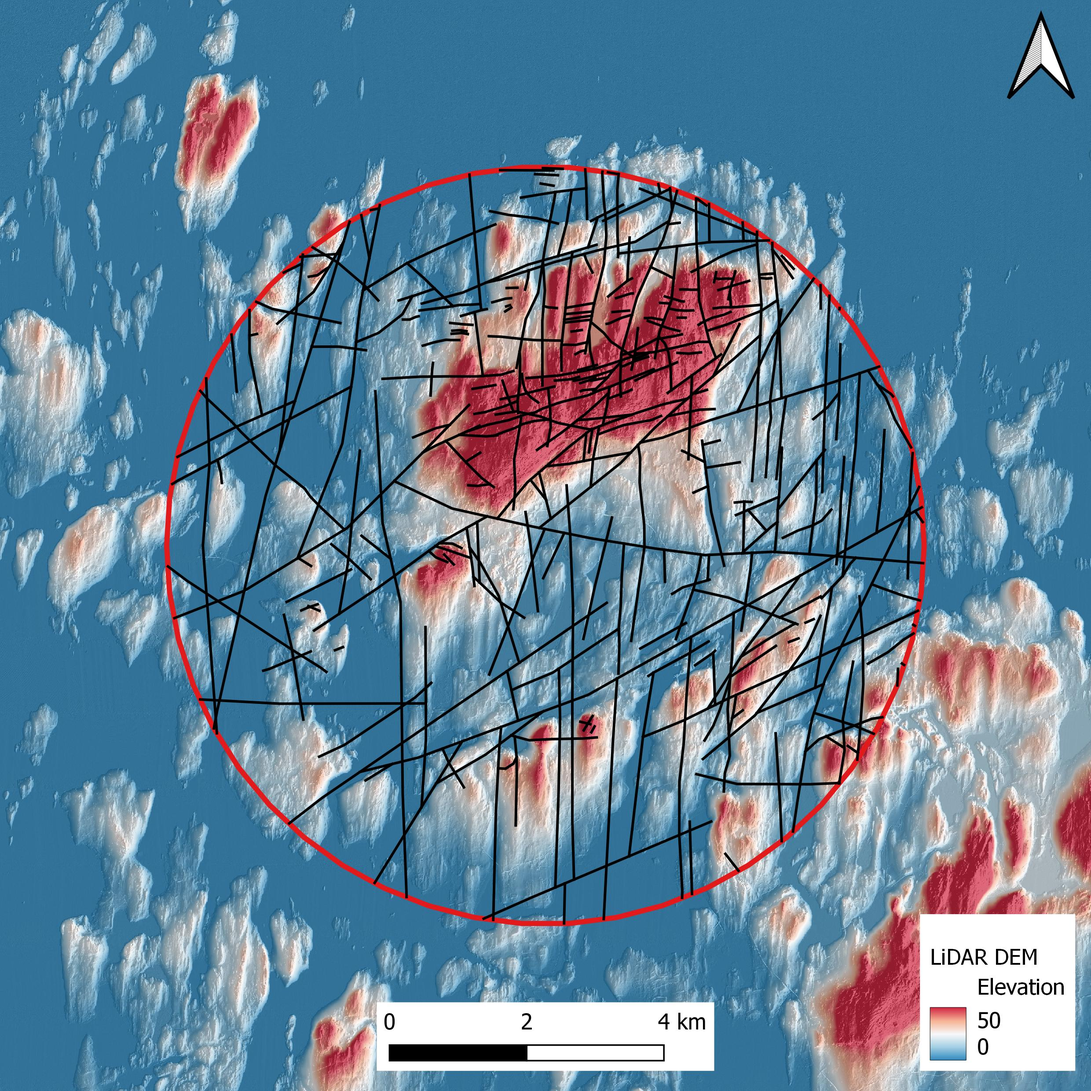
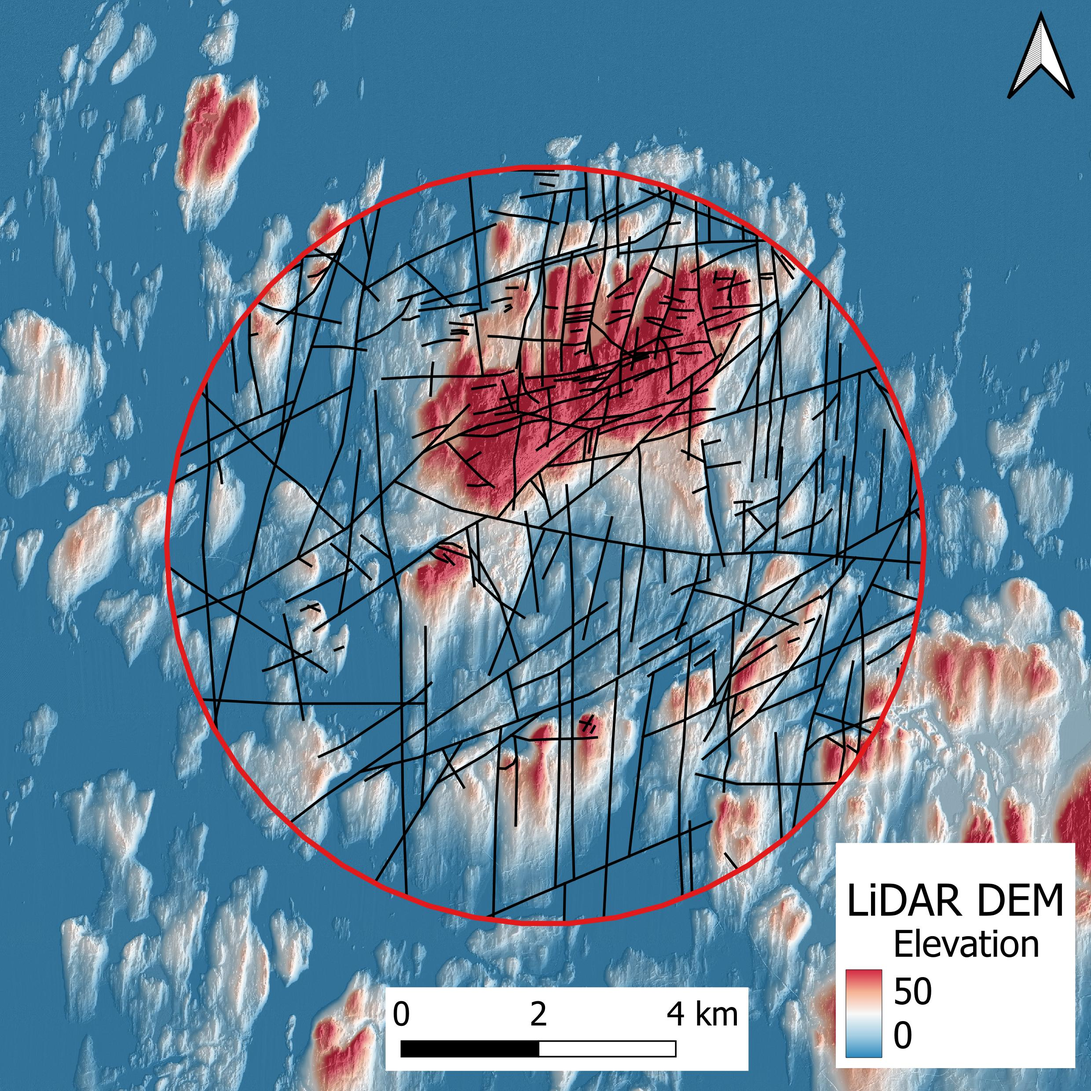
fix: fix plot labels

Changed region(s): [[0.7452, 0.7452, 0.9935, 0.9935], [0.3415, 0.9004, 0.7141, 0.9935]]

diff --git a/dodo.py b/dodo.py
@@ -483,7 +483,7 @@ def task_add_colorbar():
     """
     Add custom colorbars to rasters.
     """
-    labels = ["A.", "C.", "A.", "B.", "B.", "D."]
+    labels = ["(a)", "(c)", "(a)", "(b)", "(b)", "(d)"]
     cmd_base = command(
         [
             "python",
@@ -541,7 +541,7 @@ def add_label_to_image_cmd(path, label, x=30, y=60, fontsize=50):
         r"\( ",
         str(path),
         "-draw",
-        f""" "text {x},{y} '{label}.'" """,
+        f""" "text {x},{y} '{label}'" """,
         r" \)",
     ]
 
@@ -668,12 +668,13 @@ def task_qgis_fig04_montage():
         ]
     )
     label_opts = dict(fontsize=250, y=240)
+    labels = ("(a)", "(b)")
     cmd = cmd_base.format(
         # " ".join(map(str, (dem_path, mag_2_path, em_path, int_path))),
         " ".join(
             [
                 " ".join(add_label_to_image_cmd(path=path, label=label, **label_opts))
-                for path, label in zip((geta_path, godby_path), ("A", "B"))
+                for path, label in zip((geta_path, godby_path), labels)
             ]
         ),
         SCALE_1_20000_FIG_PATH,
@@ -682,7 +683,11 @@ def task_qgis_fig04_montage():
     yield {
         NAME: SCALE_1_20000_FIG_PATH.name,
         FILE_DEP: [geta_path, godby_path],
-        UP_TO_DATE: [config_changed(dict(cmd_base=cmd_base, label_opts=label_opts))],
+        UP_TO_DATE: [
+            config_changed(
+                dict(cmd_base=cmd_base, label_opts=label_opts, labels=labels)
+            )
+        ],
         TARGETS: [SCALE_1_20000_FIG_PATH],
         ACTIONS: [cmd],
     }
@@ -749,7 +754,6 @@ def task_concatenate_scales():
     area_opt = "--area-paths={}"
 
     for traces, areas, name in zip(TRACES_LIST, AREAS_LIST, DATASET_NAMES):
-
         concat_traces_path, concat_area_path = _concat_paths(name=name)
         cmd = command(
             [
@@ -810,7 +814,6 @@ def task_final_fig05_network_analysis_montage():
     density_option = "-density 300"
 
     for plot_type, plot_paths in plot_svgs.items():
-
         output_path_horizontal = OUTPUTS_PATH / f"networks/{plot_type}_montage.png"
         output_path_vertical = (
             OUTPUTS_PATH / f"networks/{plot_type}_vertical_montage.png"
@@ -855,15 +858,17 @@ def task_final_fig05_network_analysis_montage():
                 montage_paths.append(output_path)
 
     # Then create montage of the individual montages into single final montage
+    labels = ("(a)", "(b)", "(c)")
     with_labels = [
         # ["-density", "300"]+
         add_label_to_image_cmd(path, label, fontsize=90, y=80, x=15)
-        for path, label in zip(montage_paths[0:3], ("A", "B", "C"))
+        for path, label in zip(montage_paths[0:3], labels)
     ]
+    appendix_labels = ("(a)", "(b)")
     appendix_with_labels = [
         # ["-density", "300"]+
         add_label_to_image_cmd(path, label, fontsize=90, y=80, x=15)
-        for path, label in zip(montage_paths[3:], ("A", "B"))
+        for path, label in zip(montage_paths[3:], appendix_labels)
     ]
     montage_options = command(
         [
@@ -878,7 +883,6 @@ def task_final_fig05_network_analysis_montage():
     appendix_montage_options = montage_options.replace("1x3", "1x2")
 
     def _montage_cmd(options, labels, montage_path):
-
         final_montage_cmd = command(
             [
                 "magick",
@@ -903,6 +907,7 @@ def task_final_fig05_network_analysis_montage():
         montage_path=APPENDIX_NETWORK_ANALYSIS_MONTAGE,
     )
 
+    all_labels = tuple([*appendix_labels, *labels])
     for target, cmd in zip(
         (NETWORK_ANALYSIS_MONTAGE, APPENDIX_NETWORK_ANALYSIS_MONTAGE),
         (final_montage_cmd, appendix_final_montage_cmd),
@@ -912,7 +917,11 @@ def task_final_fig05_network_analysis_montage():
             FILE_DEP: [
                 *montage_paths,
             ],
-            UP_TO_DATE: [config_changed(dict(montage_options=montage_options))],
+            UP_TO_DATE: [
+                config_changed(
+                    dict(montage_options=montage_options, all_labels=all_labels)
+                )
+            ],
             # TASK_DEP: ["final_multi_network_analysis"],
             TASK_DEP: [resolve_task_name(task_final_tab03_multi_network_analysis)],
             ACTIONS: [
@@ -940,7 +949,7 @@ def task_final_fig06_multi_scale_fits_figure_montage():
     set_paths = [MULTI_SCALE_SET_LENGTHS / filename for filename in set_filenames]
     dep_paths = [all_path, *set_paths]
     # dep_paths_with_opt = [f"-density 300 {path}" for path in [all_path, *set_paths]]
-    labels = ["A", "B", "C", "D"]
+    labels = ["(a)", "(b)", "(c)", "(d)"]
     label_opts = dict(fontsize=40, y=130)
     dep_paths_with_opt = [
         " ".join(
@@ -1042,7 +1051,7 @@ def task_final_fig07_multi_network_analysis_montage():
     with_labels = [
         ["-density", "300"]
         + add_label_to_image_cmd(path=path, label=label, x=30, y=240, fontsize=50)
-        for path, label in zip(montage_target_plots, ("A", "B"))
+        for path, label in zip(montage_target_plots, ("(a)", "(b)"))
     ]
     montage_cmd = command(
         [
@@ -1436,10 +1445,10 @@ def task_final_fig02_add_index_to_drone_rasters():
             "-font",
             "DejaVu-Sans",
             *add_label_to_image_cmd(
-                path=DRONE_INDEX_FIGURE, label="A", fontsize=125, y=100
+                path=DRONE_INDEX_FIGURE, label="(a)", fontsize=110, y=90, x=25
             ),
             *add_label_to_image_cmd(
-                path=DRONE_RASTER_MONTAGE, label="B", fontsize=125, y=120
+                path=DRONE_RASTER_MONTAGE, label="(b)", fontsize=110, y=120
             ),
             # str(DRONE_INDEX_FIGURE),
             # str(DRONE_RASTER_MONTAGE),
